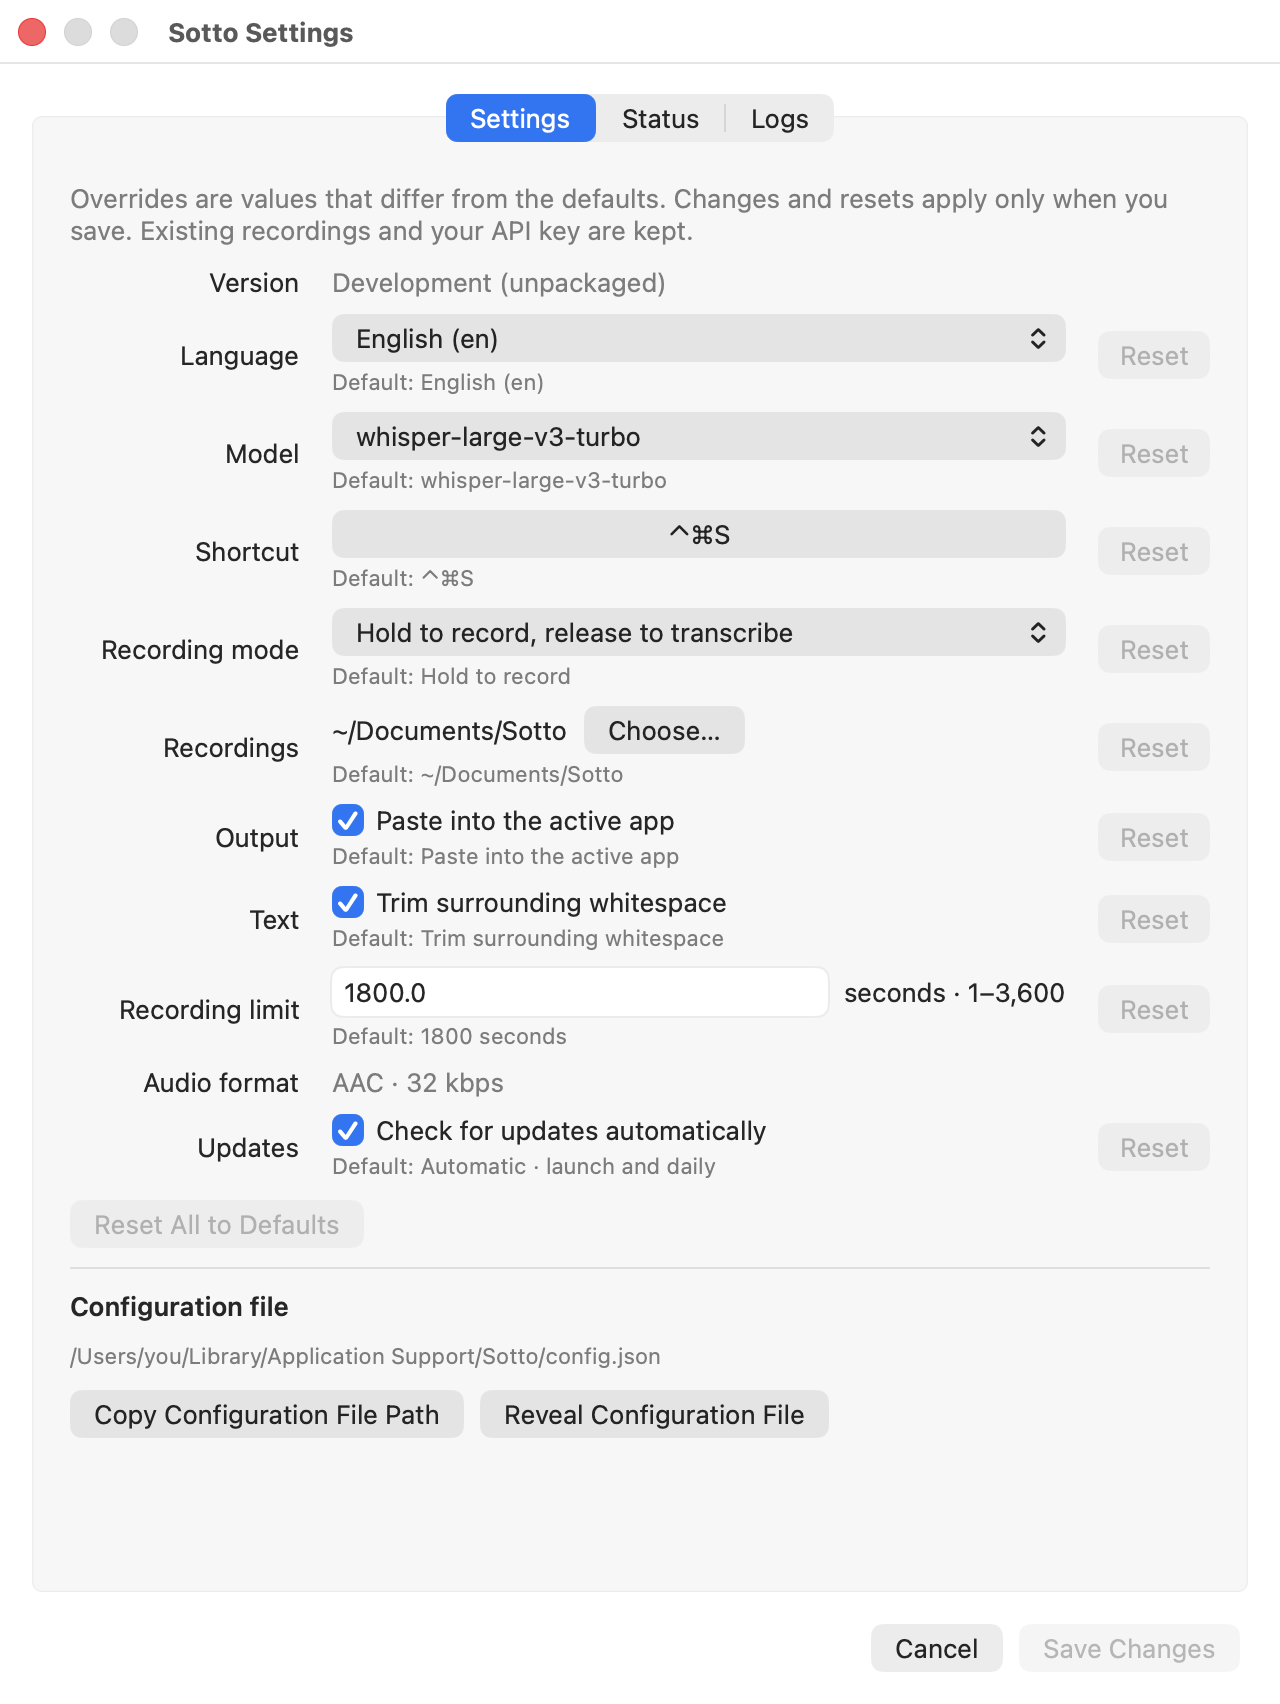
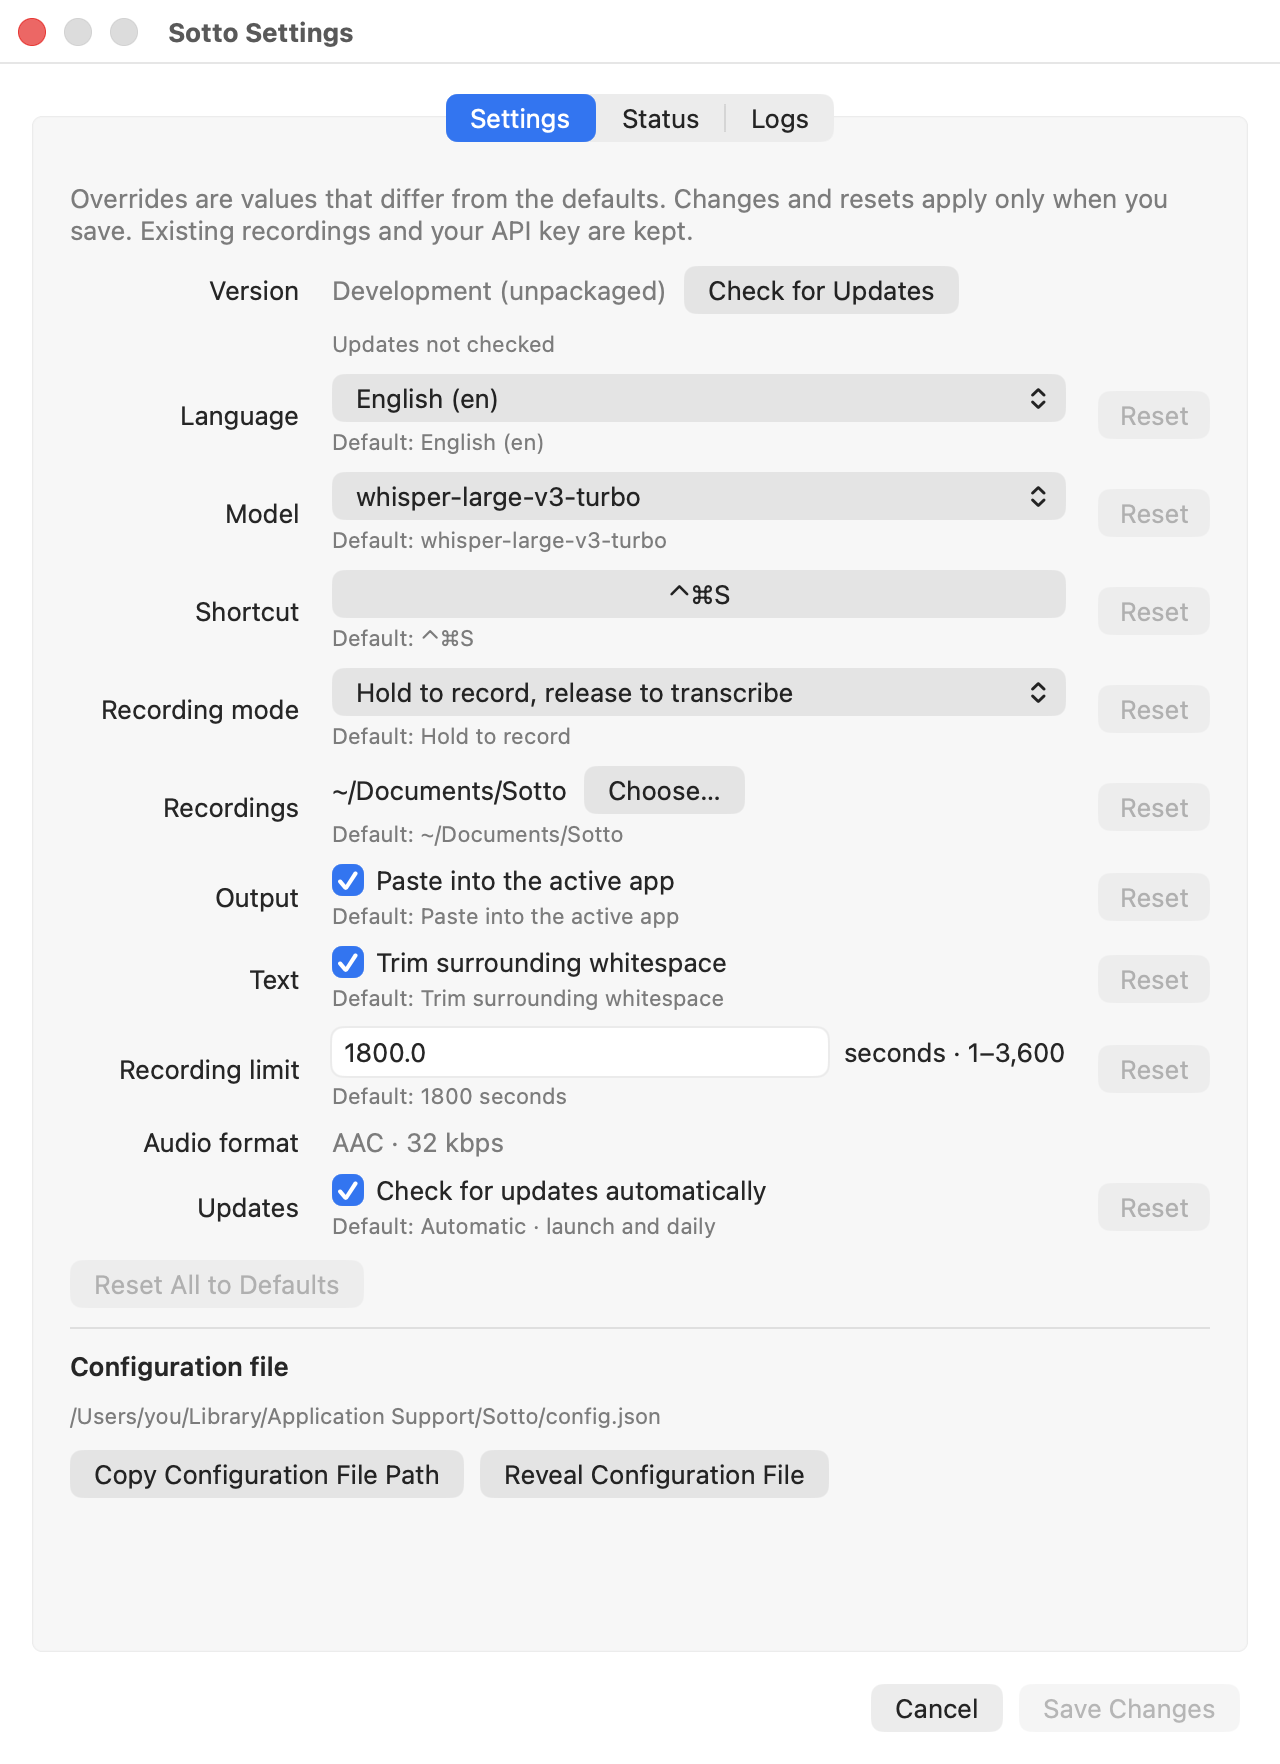
Release v0.1.6 with update controls and clear preparation status

diff --git a/Sources/sotto/SettingsWindow.swift b/Sources/sotto/SettingsWindow.swift
@@ -4,6 +4,10 @@ import SottoCore
 /// Built on demand and released on close; the configuration file stays canonical.
 @MainActor
 final class SettingsWindow: NSWindowController, NSWindowDelegate, NSTabViewDelegate, NSTextFieldDelegate {
+    private let updates: UpdateChecker
+    private let updateStatus = NSTextField(labelWithString: "")
+    private let checkUpdates = NSButton(title: "Check for Updates", target: nil, action: nil)
+    private let downloadUpdate = NSButton(title: "Download Update…", target: nil, action: nil)
     private let original: Configuration
     private var draft: Configuration
     private let defaults = Configuration(recordingsDirectory: FileManager.default.urls(for: .documentDirectory, in: .userDomainMask)[0].appendingPathComponent("Sotto").path)
@@ -28,7 +32,8 @@ final class SettingsWindow: NSWindowController, NSWindowDelegate, NSTabViewDeleg
     private let folder = NSTextField(labelWithString: "")
     private let logs = LogsView(frame: .zero)
 
-    init(configuration: Configuration, configurationURL: URL, onSave: @escaping (Configuration) throws -> Void, onClose: @escaping () -> Void) {
+    init(configuration: Configuration, configurationURL: URL, updates: UpdateChecker, onSave: @escaping (Configuration) throws -> Void, onClose: @escaping () -> Void) {
+        self.updates = updates
         shortcut = ShortcutButton(configuration: configuration)
         draft = configuration
         original = configuration; saveConfiguration = onSave; didClose = onClose
@@ -77,6 +82,17 @@ final class SettingsWindow: NSWindowController, NSWindowDelegate, NSTabViewDeleg
         let build = label(BuildInfo.version)
         build.isSelectable = true
         build.textColor = .secondaryLabelColor
+        checkUpdates.target = updates; checkUpdates.action = #selector(UpdateChecker.check)
+        downloadUpdate.target = updates; downloadUpdate.action = #selector(UpdateChecker.download)
+        let versionRow = NSStackView(views: [build, checkUpdates])
+        versionRow.orientation = .horizontal; versionRow.spacing = 8
+        updateStatus.font = .systemFont(ofSize: 11)
+        updateStatus.textColor = .secondaryLabelColor
+        updateStatus.lineBreakMode = .byTruncatingTail
+        let updateRow = NSStackView(views: [updateStatus, downloadUpdate])
+        updateRow.orientation = .vertical; updateRow.alignment = .leading; updateRow.spacing = 4
+        updates.onChange = { [weak self] in self?.refreshUpdates() }
+        refreshUpdates()
         let d = defaults
         let defaultLanguage = d.language.map { "\(Locale.current.localizedString(forLanguageCode: $0) ?? $0) (\($0))" } ?? "Automatic detection"
         duration.stringValue = String(configuration.maxRecordingSeconds)
@@ -87,7 +103,8 @@ final class SettingsWindow: NSWindowController, NSWindowDelegate, NSTabViewDeleg
         let durationRow = NSStackView(views: [duration, label("seconds · 1–3,600")])
         durationRow.orientation = .horizontal; durationRow.spacing = 8
         let grid = NSGridView(views: [
-            [label("Version"), build, NSGridCell.emptyContentView],
+            [label("Version"), versionRow, NSGridCell.emptyContentView],
+            [NSGridCell.emptyContentView, updateRow, NSGridCell.emptyContentView],
             settingRow("Language", control: language, caption: defaultLanguage, matches: { $0.language == d.language }, reset: { $0.language = d.language }),
             settingRow("Model", control: model, caption: d.model, matches: { $0.model == d.model }, reset: { $0.model = d.model }),
             settingRow("Shortcut", control: shortcut, caption: Hotkey.displayName(d), matches: { $0.hotkeyKeyCode == d.hotkeyKeyCode && $0.hotkeyModifiers == d.hotkeyModifiers }, reset: { $0.hotkeyKeyCode = d.hotkeyKeyCode; $0.hotkeyModifiers = d.hotkeyModifiers }),
@@ -296,6 +313,13 @@ final class SettingsWindow: NSWindowController, NSWindowDelegate, NSTabViewDeleg
         alert.beginSheetModal(for: window)
     }
 
+    private func refreshUpdates() {
+        updateStatus.stringValue = updates.statusItem.title
+        updateStatus.toolTip = updates.statusItem.toolTip ?? updates.statusItem.title
+        checkUpdates.isEnabled = updates.checkItem.isEnabled
+        downloadUpdate.isHidden = updates.downloadItem.isHidden
+    }
+
     private func updateButtons() {
         let config = editedConfiguration
         for row in resetRows {
@@ -315,7 +339,7 @@ final class SettingsWindow: NSWindowController, NSWindowDelegate, NSTabViewDeleg
         updateButtons()
         guard let window else { return }
         let tab = tabViewItem?.identifier as? String
-        let height: CGFloat = tab == "settings" ? 820 : (tab == "logs" ? 400 : 650)
+        let height: CGFloat = tab == "settings" ? 850 : (tab == "logs" ? 400 : 650)
         var frame = window.frame
         let contentHeight = window.contentRect(forFrameRect: frame).height
         frame.origin.y += contentHeight - height
@@ -328,6 +352,7 @@ final class SettingsWindow: NSWindowController, NSWindowDelegate, NSTabViewDeleg
     }
     func windowWillClose(_ notification: Notification) {
         diagnostics.cancelCheck()
+        updates.onChange = nil
         NSApp.setActivationPolicy(.accessory)
         didClose()
     }

diff --git a/Sources/sotto/UpdateChecker.swift b/Sources/sotto/UpdateChecker.swift
@@ -7,6 +7,7 @@ final class UpdateChecker: NSObject {
     let checkItem = NSMenuItem(title: "Check for Updates", action: nil, keyEquivalent: "")
     let statusItem = NSMenuItem(title: "Updates not checked", action: nil, keyEquivalent: "")
     let downloadItem = NSMenuItem(title: "Download Update…", action: nil, keyEquivalent: "")
+    var onChange: (() -> Void)?
     private var releaseURL: URL?
     private var request: Task<Void, Never>?
     private var schedule: Task<Void, Never>?
@@ -40,6 +41,7 @@ final class UpdateChecker: NSObject {
             request?.cancel(); request = nil
             checkItem.isEnabled = true
             statusItem.title = "Automatic update checks off"
+            onChange?()
         }
     }
 
@@ -52,7 +54,7 @@ final class UpdateChecker: NSObject {
             guard let self else { return }
             defer {
                 // A cancelled request must not clear a newer request after re-enabling.
-                if !Task.isCancelled { request = nil; checkItem.isEnabled = true }
+                if !Task.isCancelled { request = nil; checkItem.isEnabled = true; onChange?() }
             }
             do {
                 try Task.checkCancellation()
@@ -66,6 +68,10 @@ final class UpdateChecker: NSObject {
                 downloadItem.title = "Download Sotto \(release.tag_name)…"
                 statusItem.title = releaseURL == nil ? "Sotto is up to date · checked \(Date().formatted(date: .omitted, time: .shortened))" : "Sotto \(release.tag_name) is available"
                 AppLog.shared.record("Updates: \(statusItem.title)")
+            } catch let pending as AppRelease.DownloadPending {
+                releaseURL = nil; downloadItem.isHidden = true
+                statusItem.title = pending.localizedDescription
+                AppLog.shared.record("Updates: \(statusItem.title)")
             } catch {
                 guard !Task.isCancelled else { return }
                 statusItem.title = "Couldn’t check for updates · try again"
@@ -73,6 +79,7 @@ final class UpdateChecker: NSObject {
                 AppLog.shared.record("Update check: \(error.localizedDescription)", error: true)
             }
         }
+        onChange?()
     }
 
     nonisolated static func fetchLatest(version: String) async throws -> AppRelease {
@@ -92,10 +99,11 @@ final class UpdateChecker: NSObject {
         return try JSONDecoder().decode(AppRelease.self, from: data)
     }
 
-    @objc private func download() {
+    @objc func download() {
         guard let releaseURL else { return }
         if !NSWorkspace.shared.open(releaseURL) {
             statusItem.title = "Couldn’t open the release page"
+            onChange?()
             AppLog.shared.record("Could not open \(releaseURL.absoluteString)", error: true)
         }
     }

diff --git a/Sources/SottoCore/AppRelease.swift b/Sources/SottoCore/AppRelease.swift
@@ -12,6 +12,11 @@ public struct AppRelease: Decodable, Sendable {
         public let size: Int
     }
 
+    public struct DownloadPending: LocalizedError, Sendable {
+        public let version: String
+        public var errorDescription: String? { "Sotto \(version) download is being prepared." }
+    }
+
     public func updateURL(currentVersion: String) throws -> URL? {
         func components(_ value: String) throws -> [Int] {
             let parts = value.split(separator: ".", omittingEmptySubsequences: false)
@@ -25,7 +30,7 @@ public struct AppRelease: Decodable, Sendable {
         let newer = try components(currentVersion).lexicographicallyPrecedes(components(version))
         guard newer else { return nil }
         guard assets.contains(where: { $0.name == "Sotto-\(version)-macOS-universal.zip" && $0.state == "uploaded" && $0.size > 0 }) else {
-            throw SottoError("Sotto \(version) is published, but its app download is not ready. Check again later.")
+            throw DownloadPending(version: version)
         }
         return URL(string: "https://github.com/ben-z/sotto/releases/tag/\(tag_name)")!
     }

diff --git a/scripts/test-updates.swift b/scripts/test-updates.swift
@@ -65,6 +65,15 @@ actor Requests {
         try await finish(race)
         try expect(!race.downloadItem.isHidden, "Re-enabling during cancellation lost its request")
         race.configure(automatic: false)
+        let pendingRelease = try JSONDecoder().decode(AppRelease.self, from: Data("""
+        {"tag_name":"v0.1.3","draft":false,"prerelease":false,"assets":[]}
+        """.utf8))
+        let pending = UpdateChecker(version: "0.1.1") { _ in pendingRelease }
+        var notifications = 0
+        pending.onChange = { notifications += 1 }
+        pending.check(); try await finish(pending)
+        try expect(pending.statusItem.title.contains("being prepared") && pending.downloadItem.isHidden, "Pending download must have a specific status")
+        try expect(notifications >= 2, "Settings must receive progress and completion")
         let missing = UpdateChecker(version: nil) { _ in latest }
         missing.check(); try await finish(missing)
         try expect(missing.statusItem.title.contains("Couldn’t check"), "Missing version must fail")

diff --git a/scripts/render-readme.swift b/scripts/render-readme.swift
@@ -37,7 +37,7 @@ import SottoCore
         try save(guide, "indicator-guide.png")
 
         let config = Configuration(recordingsDirectory: "~/Documents/Sotto")
-        let settings = SettingsWindow(configuration: config, configurationURL: URL(fileURLWithPath: "/Users/you/Library/Application Support/Sotto/config.json"), onSave: { _ in throw SottoError("Documentation preview cannot save settings") }, onClose: {})
+        let settings = SettingsWindow(configuration: config, configurationURL: URL(fileURLWithPath: "/Users/you/Library/Application Support/Sotto/config.json"), updates: UpdateChecker(), onSave: { _ in throw SottoError("Documentation preview cannot save settings") }, onClose: {})
         settings.present(showStatus: false)
         settings.window?.makeFirstResponder(nil)
         DispatchQueue.main.asyncAfter(deadline: .now() + 1) {

diff --git a/Tests/SottoCoreTests/CoreTests.swift b/Tests/SottoCoreTests/CoreTests.swift
@@ -197,7 +197,7 @@ func rejectsInvalidLanguageCodes(_ language: String) {
     #expect(try release("v0.1.2").updateURL(currentVersion: "0.2.0") == nil)
     #expect(try release("v1.0.0", draft: true).updateURL(currentVersion: "0.1.2") == nil)
     #expect(try release("v1.0.0-beta", prerelease: true).updateURL(currentVersion: "0.1.2") == nil)
-    #expect(throws: SottoError.self) { try release("v1.0.0", ready: false).updateURL(currentVersion: "0.1.2") }
+    #expect(throws: AppRelease.DownloadPending.self) { try release("v1.0.0", ready: false).updateURL(currentVersion: "0.1.2") }
     #expect(throws: SottoError.self) { try release("vgarbage").updateURL(currentVersion: "0.1.2") }
     #expect(throws: SottoError.self) { try release("v1.0.0").updateURL(currentVersion: "Development") }
 }

diff --git a/Sources/sotto/Agent.swift b/Sources/sotto/Agent.swift
@@ -144,7 +144,7 @@ final class Agent: NSObject, NSApplicationDelegate {
     @objc func openRecordings() { NSWorkspace.shared.open(session.archive.directory) }
     @objc func editConfig() {
         if settingsWindow == nil {
-            settingsWindow = SettingsWindow(configuration: session.configuration, configurationURL: Paths.config, onSave: { [weak self] config in
+            settingsWindow = SettingsWindow(configuration: session.configuration, configurationURL: Paths.config, updates: updates, onSave: { [weak self] config in
                 guard let self else { throw SottoError("Sotto is shutting down.") }
                 try self.applyConfiguration(config)
             }, onClose: { [weak self] in self?.settingsWindow = nil })

diff --git a/README.md b/README.md
@@ -73,7 +73,7 @@ Native development UI captured with example paths. See [how the images are gener
 
 Sotto checks GitHub at launch and once daily while running. A newer version appears **inside the menu**, with **Download Sotto…** opening its release page. Download and install updates when you’re ready.
 
-Turn off **Updates** in Settings to disable automatic checks. **Check for Updates** still works manually. Checks send no recordings, transcripts, or Groq key. Failed checks appear in the menu and native logs without interrupting dictation; releases are offered only after their app ZIP is uploaded.
+Turn off **Updates** in Settings to disable automatic checks. **Check for Updates** is available beside the version in Settings and in the menu, including when automatic checks are disabled. Checks send no recordings, transcripts, or Groq key. Check results appear in Settings and the menu. If a release is still building, Sotto says its download is being prepared; the download button appears once the app ZIP is ready. Connection failures are also recorded in native logs.
 
 To install an update, finish your recording, quit Sotto, extract the new ZIP, and replace the app in the **same location**. Reopen it. Your key, configuration, and recordings live outside the app and are preserved. Ad-hoc signing means macOS may ask for microphone, Accessibility, or Keychain approval again. If auto-paste stops working, the Status tab explains how to refresh the Accessibility entry.
 

diff --git a/RELEASE_NOTES.md b/RELEASE_NOTES.md
@@ -1,8 +1,9 @@
-Sotto v0.1.5 refines the wording for update settings.
+Sotto v0.1.6 adds manual update checks to Settings.
 
-- The setting is labeled **Check for updates automatically**.
-- README text and the Settings screenshot match the updated wording.
+- **Check for Updates** appears beside the installed version, with a separate result line and a **Download Update…** button when a release is ready.
+- A published release whose app is still building is labeled **download is being prepared**, rather than a failed check.
+- Settings and the menu share the same update checker and results.
 
 Download the universal ZIP below for Apple silicon and Intel Macs running macOS 14+. Quit Sotto, replace the app in the same location, and reopen it. Existing settings, recordings, and your Groq key are preserved.
 
-**Personal-use build:** ad-hoc signed, not notarized by Apple. No Apple developer account is needed to use it. macOS may require Privacy & Security → Open Anyway and renewed permissions. The ZIP and SHA256SUMS appear after CI succeeds.
+**Personal-use build:** ad-hoc signed, not notarized by Apple. macOS may require Privacy & Security → Open Anyway and renewed permissions. The ZIP and SHA256SUMS appear after CI succeeds.
